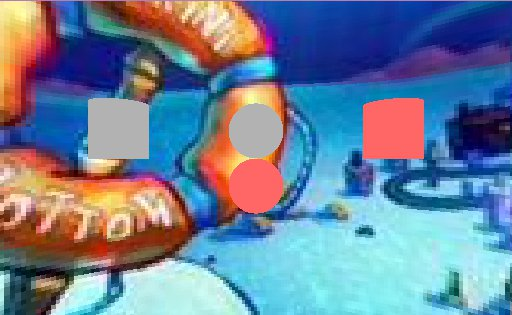
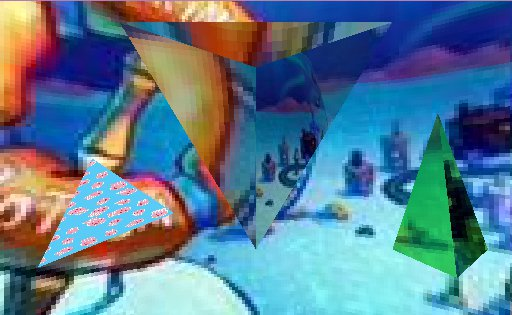
Archivos finales
Archivo con las figuras ya sirviendo

diff --git a/figuras.py b/figuras.py
@@ -290,3 +290,67 @@ class Cylinder(Sphere):
         else:
             # Ambas soluciones están fuera de la altura del cilindro
             return None
+
+
+class Triangle(Shape):
+    def __init__(self, vertices, material):
+        self.vertices = vertices
+        #super().__init__(position, material)
+        v0 = ml.vector_subtraction(self.vertices[1], self.vertices[0])
+        v1 = ml.vector_subtraction(self.vertices[2],self.vertices[0])
+        self.normal = ml.normalize_vector(ml.cross_product(v0,v1))
+
+        x = (vertices[0][0] + vertices[1][0]+vertices[2][0])/3
+        y = (vertices[0][1] + vertices[1][1]+vertices[2][1])/3
+        z = (vertices[0][2] + vertices[1][2]+vertices[2][2])/3
+
+        super().__init__((x,y,z), material)
+
+    def ray_intersect(self, orig, dir):
+        denom = ml.dot_product(dir, self.normal)
+                
+        if abs(denom)<=0.0001:
+            return None
+        
+        d = -1 * ml.dot_product(self.normal, self.vertices[0])
+        num = -1 * (ml.dot_product(self.normal, orig) + d)
+
+        t = num/denom 
+
+        if t < 0:
+            return None
+        
+        P = ml.vector_addition(orig, ml.multiply_scalar_array(t,dir))
+
+        #edge 0
+        edge0 = ml.vector_subtraction(self.vertices[1],self.vertices[0]) #v1 - v0; 
+        vp0 = ml.vector_subtraction(P,self.vertices[0]) #Vec3f vp0 = P - v0;
+        C = ml.cross_product(edge0,vp0)
+        
+        if ml.dot_product(self.normal,C)<0: 
+            return None
+        
+        #edge 1
+        edge1 = ml.vector_subtraction(self.vertices[2], self.vertices[1])    #Vec3f edge1 = v2 - v1; 
+        vp1 = ml.vector_subtraction(P, self.vertices[1])    #Vec3f vp1 = P - v1;
+        C = ml.cross_product(edge1,vp1);
+        
+        if ml.dot_product(self.normal, C) < 0:    
+            return None
+    
+        #edge 2
+        edge2 = ml.vector_subtraction(self.vertices[0],self.vertices[2]) #v0 - v2; 
+        vp2 = ml.vector_subtraction(P,self.vertices[2]) #Vec3f vp2 = P - v2;
+        C = ml.cross_product(edge2,vp2);
+        
+        if ml.dot_product(self.normal, C) < 0:   
+            return None 
+        
+        u,v,w = ml.barycentricCoords(self.vertices[0], self.vertices[1], self.vertices[2], P)
+
+        
+        return Intercept(distance=t,
+                         point=P,
+                         normal=self.normal,
+                         texcoords=(u,v),
+                         obj=self)  

diff --git a/Raytracer.py b/Raytracer.py
@@ -18,20 +18,25 @@ rt = Raytracer(screen)
 rt.rtClearColor(0.7,0.5,0.7)
 rt.envMap = pygame.image.load("images/bikiniBottom.jpg")
 
-cakeTexture= pygame.image.load("images/cake.jpg")
+jellyFishTexture= pygame.image.load("images/jellyFish.jpg")
 
-brick = Material(diffuse=(1,0.4,0.4), spec = 8,  Ks = 0.01)
-cake= Material(texture=cakeTexture)
-mirror = Material(diffuse=(0.9,0.9,0.9), spec = 64, Ks = 0.2, matType = REFLECTIVE)
-blueMirror = Material(diffuse=(0.4,0.4,0.9), spec = 32, Ks = 0.15, matType = REFLECTIVE)
-marble_polished = Material(diffuse=(0.8, 0.8, 0.8), spec=128, Ks=0.5)
-concrete = Material(diffuse=(0.7, 0.7, 0.7), spec=16, Ks=0.2)
-concrete_dark = Material(diffuse=(0.6, 0.6, 0.6), spec=16, Ks=0.2)
-drywall = Material(diffuse=(0.9, 0.9, 0.9), spec=16, Ks=0.1)
+jellyFish= Material(texture=jellyFishTexture)
+greenMirror = Material(diffuse=(0.4,0.9,0.4), spec = 32, Ks = 0.15, matType = REFLECTIVE)
+dirtyGlass = Material(diffuse=(0.7, 0.7, 0.7), spec=32, Ks=0.05, ior=1.5, matType=TRANSPARENT)
 
-#Cilindros
-rt.scene.append(Cylinder(position=(0.5,-1,-1), radius = 0.1, height=0.2, material = brick)) #Derecha
-rt.scene.append(Cylinder(position=(-0.5,0.1,-1), radius = 0.1, height=0.2, material = concrete)) #Izquierda
+
+#Triangulos
+#Superficie transparente
+rt.scene.append(Triangle(vertices= [(0,-1,-3), (0,1,-3), (-2,2,-4)], material=dirtyGlass)) #Izquierda
+rt.scene.append(Triangle(vertices=[(0,-1,-3), (0,1,-3), (2,2,-4)], material=dirtyGlass)) #Derecha
+rt.scene.append(Triangle(vertices=[(0,1,-3), (2,2,-4), (-2,2,-4)], material=dirtyGlass)) #Tope
+
+#Superficie opaca
+rt.scene.append(Triangle(vertices=[(-4, -2, -5), (-3, 0, -5), (-1.5, -1, -5)], material= jellyFish)) 
+
+#Superficie reflectiva
+rt.scene.append(Triangle(vertices= [(4.2, -2.5, -5.7), (3, -2, -6), (4, 1, -6)], material=greenMirror)) #Izquierda
+rt.scene.append(Triangle(vertices=[(4.2, -2.5, -5.7), (5.1, -2, -6), (4, 1, -6)], material=greenMirror)) #Derecha
 
 #Luces
 rt.lights.append(AmbientLight(intensity=1))

diff --git a/mathLib.py b/mathLib.py
@@ -241,3 +241,35 @@ def transform_vector(matrix, vector):
         result[i] = sum(matrix[j] * vector[j] for j in range(3))
 
     return result
+
+
+def barycentricCoords(A, B, C, P):
+    areaPCB = abs((P[0]*C[1] + C[0]*B[1] + B[0]*P[1]) - 
+                 (P[1]*C[0] + C[1]*B[0] + B[1]*P[0]))
+
+    areaACP = abs((A[0]*C[1] + C[0]*P[1] + P[0]*A[1]) - 
+                (A[1]*C[0] + C[1]*P[0] + P[1]*A[0]))
+
+    areaABP = abs((A[0]*B[1] + B[0]*P[1] + P[0]*A[1]) - 
+                (A[1]*B[0] + B[1]*P[0] + P[1]*A[0]))
+
+    areaABC = abs((A[0]*B[1] + B[0]*C[1] + C[0]*A[1]) - 
+                (A[1]*B[0] + B[1]*C[0] + C[1]*A[0]))
+
+    # Si el área del triángulo es 0, retornar nada para
+    # prevenir división por 0.
+    if areaABC == 0:
+        return None
+
+    # Determinar las coordenadas bariocéntricas dividiendo el 
+    # área de cada subtriángulo por el área del triángulo mayor.
+    u = areaPCB / areaABC
+    v = areaACP / areaABC
+    w = areaABP / areaABC
+
+    # Si cada coordenada está entre 0 a 1 y la suma de las tres
+    # es igual a 1, entonces son válidas.
+    if 0 <= u <= 1 and 0 <= v <= 1 and 0 <= w <= 1 and math.isclose(u+v+w, 1.0):
+        return (u, v, w)
+    else:
+        return None
